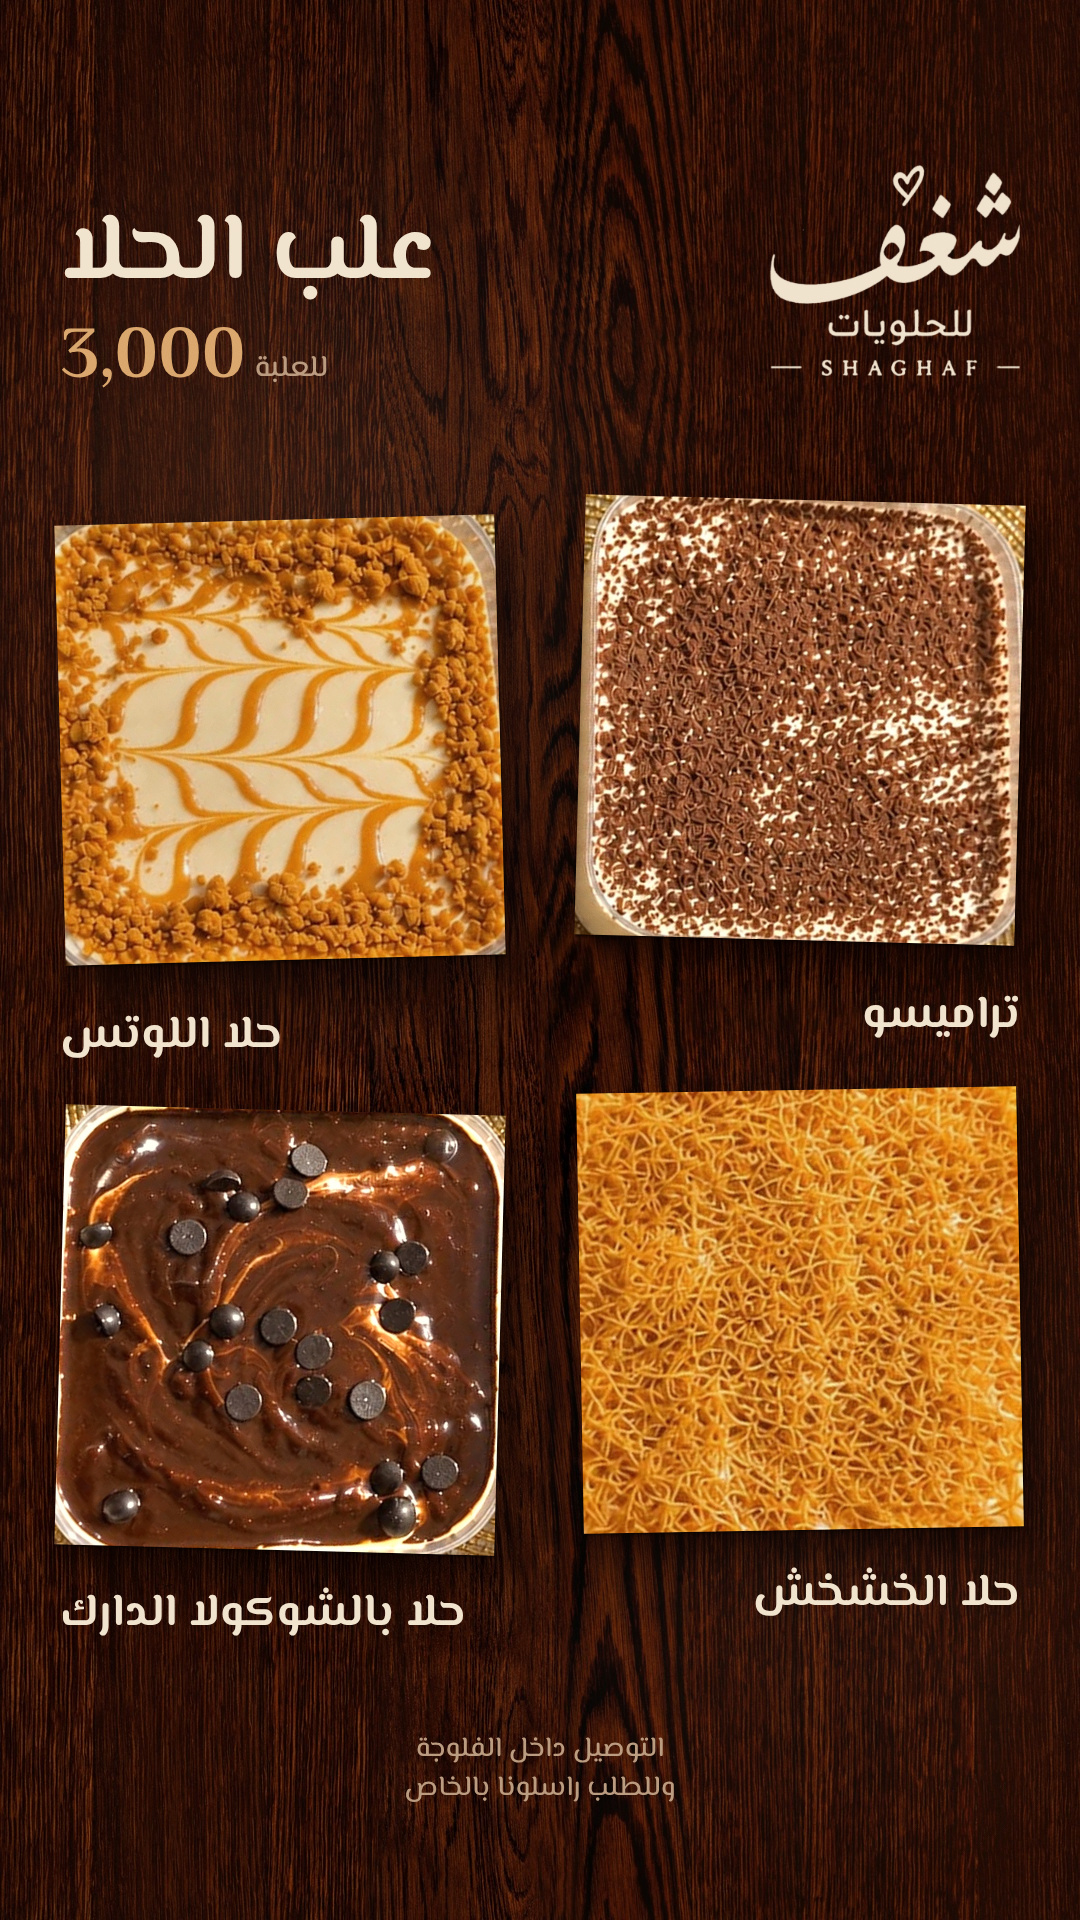
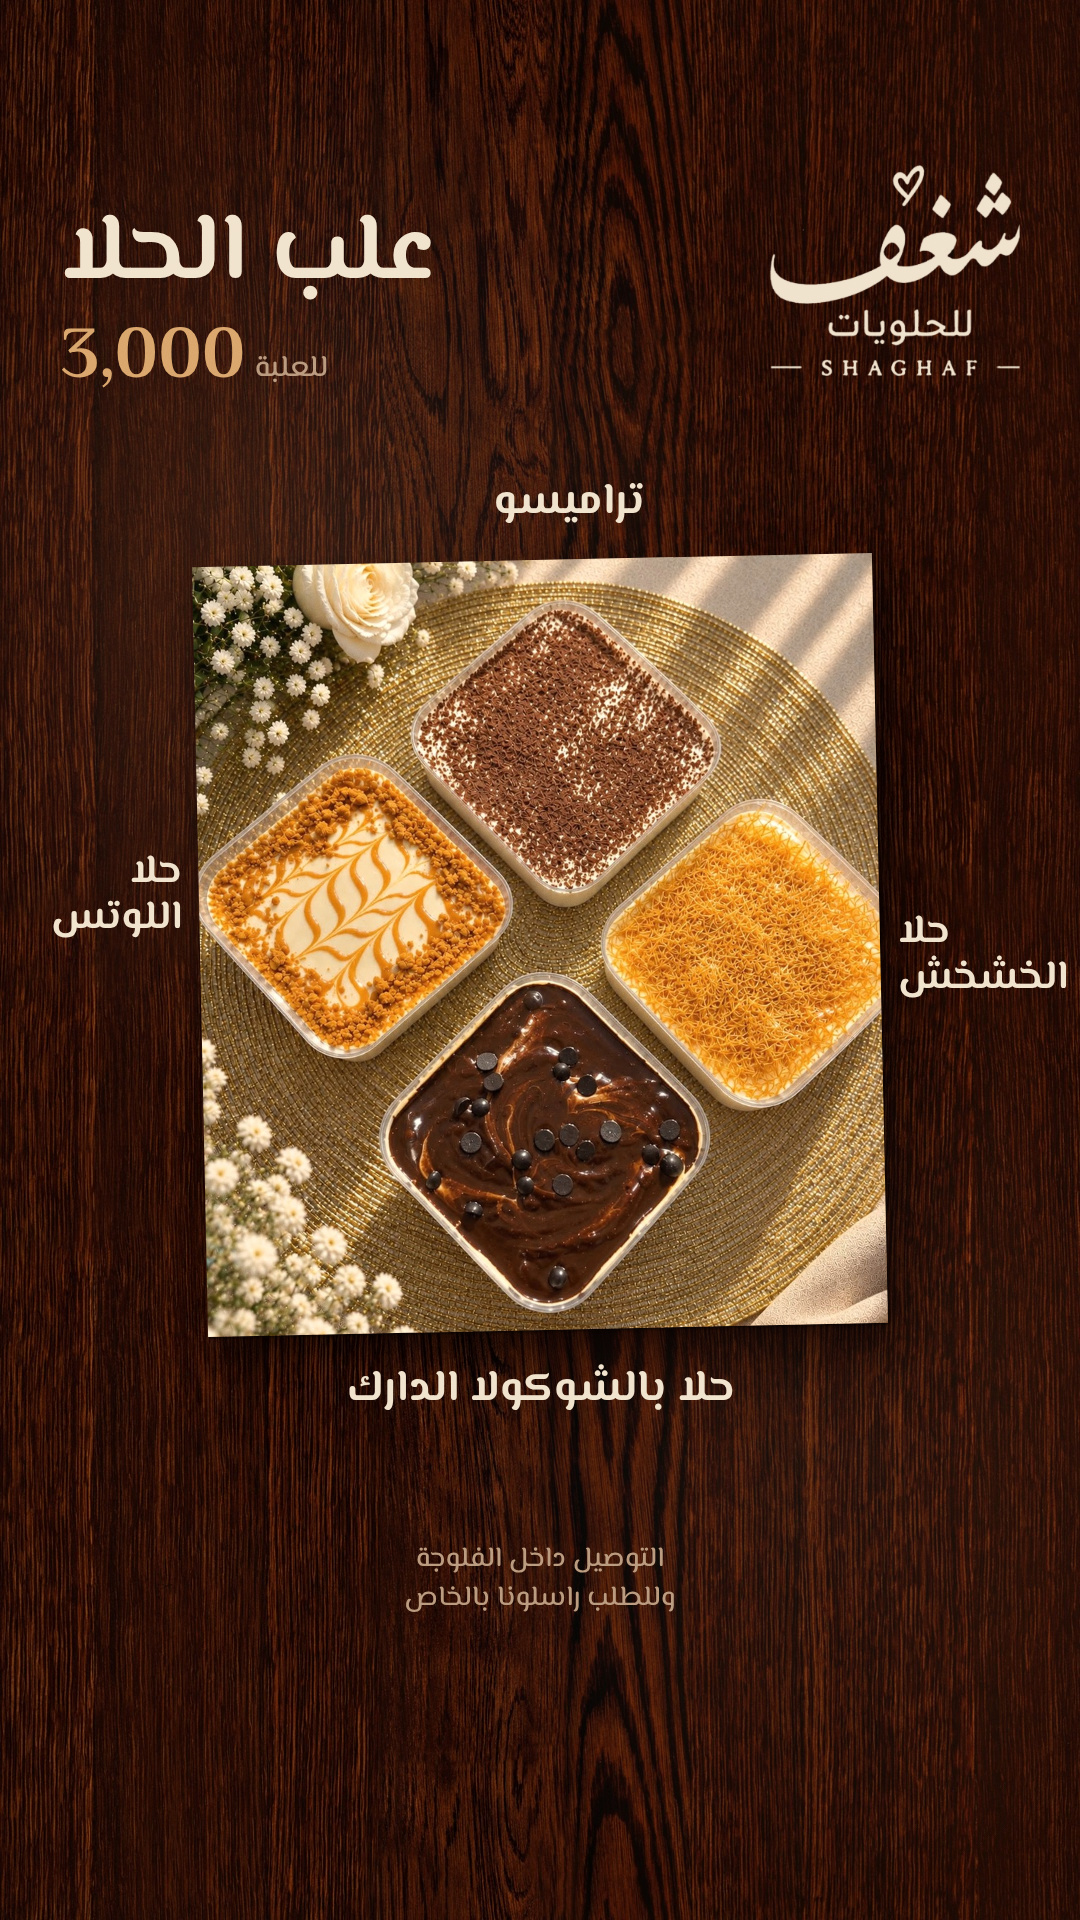
Shaghaf menu: cups story with her whole cups photo

diff --git a/marketing/shaghaf-menu/menu.html b/marketing/shaghaf-menu/menu.html
@@ -65,19 +65,15 @@ const STORIES = {
     ],
   },
   'story-3': {
-    note: [540, 1730, 'center'],
+    note: [540, 1540, 'center'],
     head: true,
-    o: [
-      ['cup-tiramisu', 'print', 580, 500, 440, 1.5],
-      ['cup-lotus', 'print', 60, 520, 440, -1.5],
-      ['cup-khashkhash', 'print', 580, 1090, 440, -1],
-      ['cup-chocolate', 'print', 60, 1110, 440, 1.5],
-    ],
+    o: [['cups', 'print', 200, 560, 680, -1.2]],
+    // each name sits on the side of the photo where its cup is
     t: [
-      [1020, 990, 'right', 'تراميسو', '', '', 46],
-      [60, 1010, 'left', 'حلا اللوتس', '', '', 46],
-      [1020, 1568, 'right', 'حلا الخشخش', '', '', 46],
-      [60, 1588, 'left', 'حلا بالشوكولا الدارك', '', '', 46],
+      [569, 478, 'center', 'تراميسو', '', '', 44],
+      [182, 850, 'right', 'حلا<br>اللوتس', '', '', 40],
+      [898, 910, 'left', 'حلا<br>الخشخش', '', '', 40],
+      [541, 1365, 'center', 'حلا بالشوكولا الدارك', '', '', 44],
     ],
   },
 };
@@ -94,7 +90,8 @@ function obj([img, kind, x, y, w, r, clip]) {
 }
 
 function txt([x, y, align, n, s, p, size]) {
-  const pos = align === 'right' ? `right:${1080 - x}px;text-align:right` : `left:${x}px;text-align:left`;
+  const pos = align === 'right' ? `right:${1080 - x}px;text-align:right`
+    : align === 'center' ? `left:${x - 300}px;width:600px;text-align:center` : `left:${x}px;text-align:left`;
   return `<div class="txt" style="${pos};top:${y}px;font-size:${size}px"><div class="n">${n}</div>
     ${s ? `<div class="s" style="font-size:${Math.max(28, size * .34)}px">${s}</div>` : ''}
     ${p ? `<div class="p" style="font-size:${size * .8}px">${p}</div>` : ''}</div>`;

diff --git a/marketing/shaghaf-menu/photos.py b/marketing/shaghaf-menu/photos.py
@@ -1,4 +1,4 @@
-# Square crops of her photos, all with one grade so they sit together: python3 -I photos.py <her photos dir>
+# Crops of her photos (square, the cups photo kept whole), all with one grade so they sit together: python3 -I photos.py <her photos dir>
 # Each crop stays clear of the price labels she printed on some of them.
 import sys, os, glob
 import numpy as np
@@ -6,48 +6,15 @@ from PIL import Image
 
 SRC = sys.argv[1]
 OUT = os.path.join(os.path.dirname(os.path.abspath(__file__)), 'art/photos')
-CROPS = [  # name, photo, square box in pixels
+CROPS = [  # name, photo, box in pixels
     ('basbousa',       '866203917', (0, 460, 1242, 1702)),
     ('honeycomb-mix',  '871361891', (0, 150, 1080, 1230)),
     ('honeycomb',      '863861604', (0, 490, 1290, 1780)),
     ('cinnabon',       '859144057', (0, 170, 1086, 1256)),
     ('cake',           '867588736', (0, 300, 1242, 1542)),
     ('marble-cake',    '862425682', (0, 575, 1290, 1865)),
+    ('cups',           '836468147', (0, 110, 1086, 1340)),  # the four cups whole, on her gold mat
 ]
-# The four cups sit turned on a gold mat in one photo. Each is found, turned straight and cropped to the cup alone,
-# so no slices of the cups next to it show (she found the first crops messy, 29 Oct).
-CUPS_PHOTO = '836468147'
-CUPS = [
-    ('cup-tiramisu',   (330, 160, 850, 670)),
-    ('cup-lotus',      (0, 400, 510, 910)),
-    ('cup-khashkhash', (630, 490, 1086, 1000)),
-    ('cup-chocolate',  (270, 760, 820, 1320)),
-]
-
-
-def straight_cup(photo, box):
-    from PIL import ImageDraw
-    from rembg import remove, new_session
-    crop = photo.crop(box)
-    a = np.asarray(remove(crop, session=new_session('u2net'), post_process_mask=True))[..., 3]
-    m = Image.fromarray(((a > 128) * 255).astype('uint8')).copy()
-    ImageDraw.floodfill(m, (m.width // 2, m.height // 2), 128)     # the cup in the middle, not its neighbours
-    m = m.point(lambda v: 255 if v == 128 else 0)
-    # the turn that makes the cup's outline tightest is the one that sets it straight
-    best = min(range(-45, 46), key=lambda t: (lambda b: (b[2] - b[0]) * (b[3] - b[1]))(m.rotate(t, expand=True).getbbox()))
-    big = photo.crop((box[0] - 150, box[1] - 150, box[2] + 150, box[3] + 150)).rotate(best, Image.BICUBIC)
-    seen = Image.new('L', photo.size, 255).crop((box[0] - 150, box[1] - 150, box[2] + 150, box[3] + 150)).rotate(best)
-    mm = Image.new('L', big.size)
-    mm.paste(m, (150, 150))
-    x0, y0, x1, y1 = mm.rotate(best).getbbox()
-    side = max(x1 - x0, y1 - y0)
-    cx, cy = (x0 + x1) // 2, (y0 + y1) // 2
-    inset = int(side * .045)                                          # inside the rounded plastic corners
-    sq = lambda i: (cx - side // 2 + i, cy - side // 2 + i, cx + side // 2 - i, cy + side // 2 - i)
-    while min(seen.crop(sq(inset)).getextrema()) < 255:              # keep the square inside her photo
-        inset += 2
-    return big.crop(sq(inset)), best
-
 
 def grade(im):
     a = np.asarray(im).astype(float) / 255
@@ -64,10 +31,5 @@ def grade(im):
 os.makedirs(OUT, exist_ok=True)
 for name, prefix, box in CROPS:
     im = Image.open(sorted(glob.glob(os.path.join(SRC, prefix + '*.jpg')))[0]).convert('RGB').crop(box)
-    grade(im.resize((940, 940), Image.LANCZOS)).save(os.path.join(OUT, name + '.jpg'), quality=93)
+    grade(im.resize((940, round(940 * im.height / im.width)), Image.LANCZOS)).save(os.path.join(OUT, name + '.jpg'), quality=93)
     print(name)
-cups = Image.open(sorted(glob.glob(os.path.join(SRC, CUPS_PHOTO + '*.jpg')))[0]).convert('RGB')
-for name, box in CUPS:
-    im, turn = straight_cup(cups, box)
-    grade(im.resize((700, 700), Image.LANCZOS)).save(os.path.join(OUT, name + '.jpg'), quality=93)
-    print(name, 'turned', turn)
